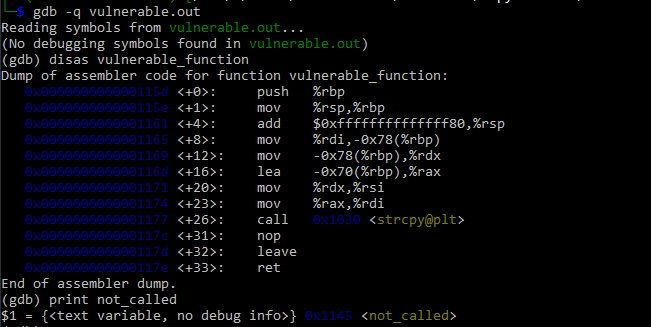
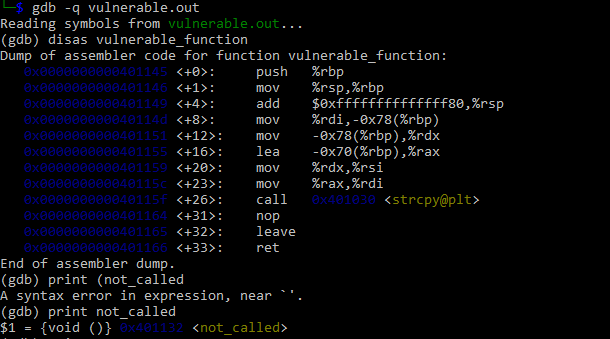
Lab 3 done

Changed region(s): [[0.0, 0.0, 0.841, 1.0]]

diff --git a/InfoSecLab3/vulnerable.c b/InfoSecLab3/vulnerable.c
@@ -3,7 +3,7 @@
 
 void not_called()
 {
-	printf("Shell created");
+	printf("Shell created\n");
 }
 
 void vulnerable_function(char* string) 
